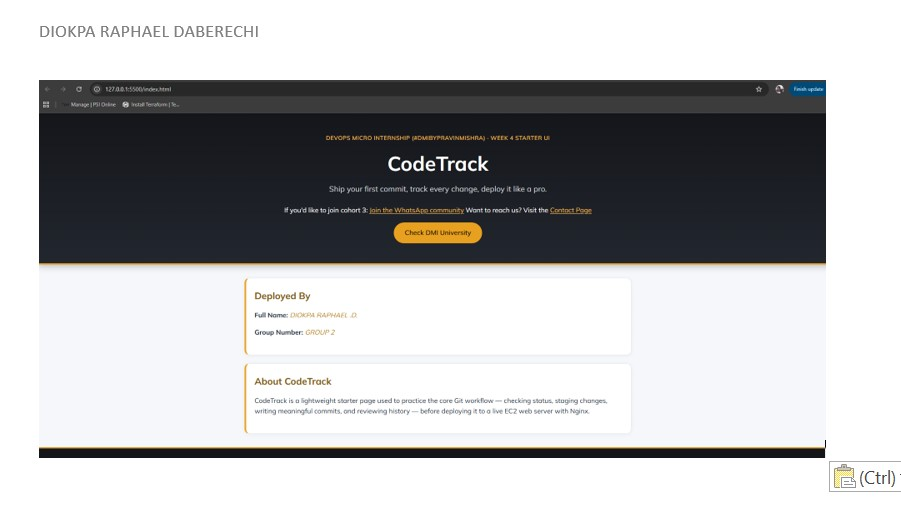
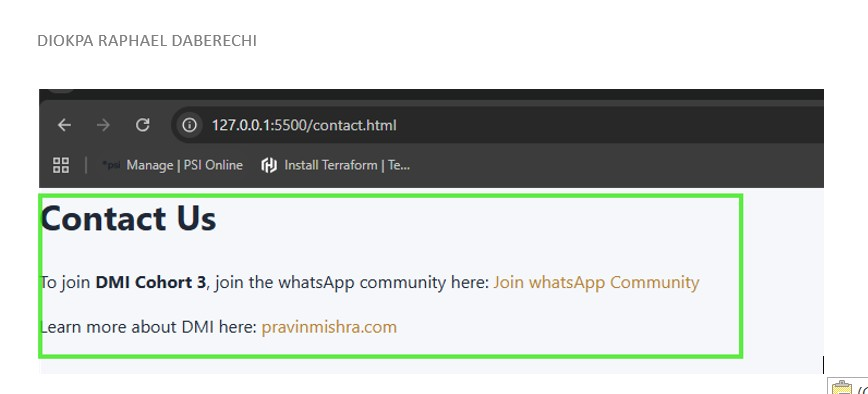
Week4-Assignment04 Completed

diff --git a/week-04-git-and-github/assignment-04-github-account-and-professional-profile.md b/week-04-git-and-github/assignment-04-github-account-and-professional-profile.md
@@ -20,13 +20,13 @@ Confirm that you have a working GitHub account and can access your GitHub dashbo
 
 #### Screenshot 1 — GitHub dashboard or Home page showing you're signed in, with your username visible
 
-Add your screenshot here.
+![image](screenshots/Week04-Assignment04-Screenshot01.jpg)
 
 ---
 
 #### Screenshot 2 (Optional but Recommended) — Your GitHub profile with `https://github.com/<username>` visible in the browser address bar
 
-Add your screenshot here.
+![image](screenshots/Week04-Assignment04-Screenshot02.jpg)
 
 ---
 
@@ -40,19 +40,19 @@ Browse Trending, search for a public project, star at least one repository, and 
 
 #### Screenshot 3 — GitHub Trending page visible in the browser
 
-Add your screenshot here.
+![image](screenshots/Week04-Assignment04-Screenshot03.jpg)
 
 ---
 
 #### Screenshot 4 — A repository page showing the Star button in the Starred state
 
-Add your screenshot here.
+![image](screenshots/Week04-Assignment04-Screenshot04.jpg)
 
 ---
 
 #### Screenshot 5 — Your forked repository page with your username and repository name visible in the URL
 
-Add your screenshot here.
+![image](screenshots/Week04-Assignment04-Screenshot05.jpg)
 
 ---
 
@@ -66,7 +66,7 @@ Add a professional bio to your GitHub profile — and optionally your location, 
 
 #### Screenshot 6 — Your public GitHub profile showing your username and professional bio
 
-Add your screenshot here.
+![image](screenshots/Week04-Assignment04-Screenshot06.jpg)
 
 ---
 
@@ -82,7 +82,7 @@ Add your screenshot here.
 
 Paste your GitHub profile URL here:
 
-`Add your URL here`
+https://github.com/czarhub
 
 ---
 
